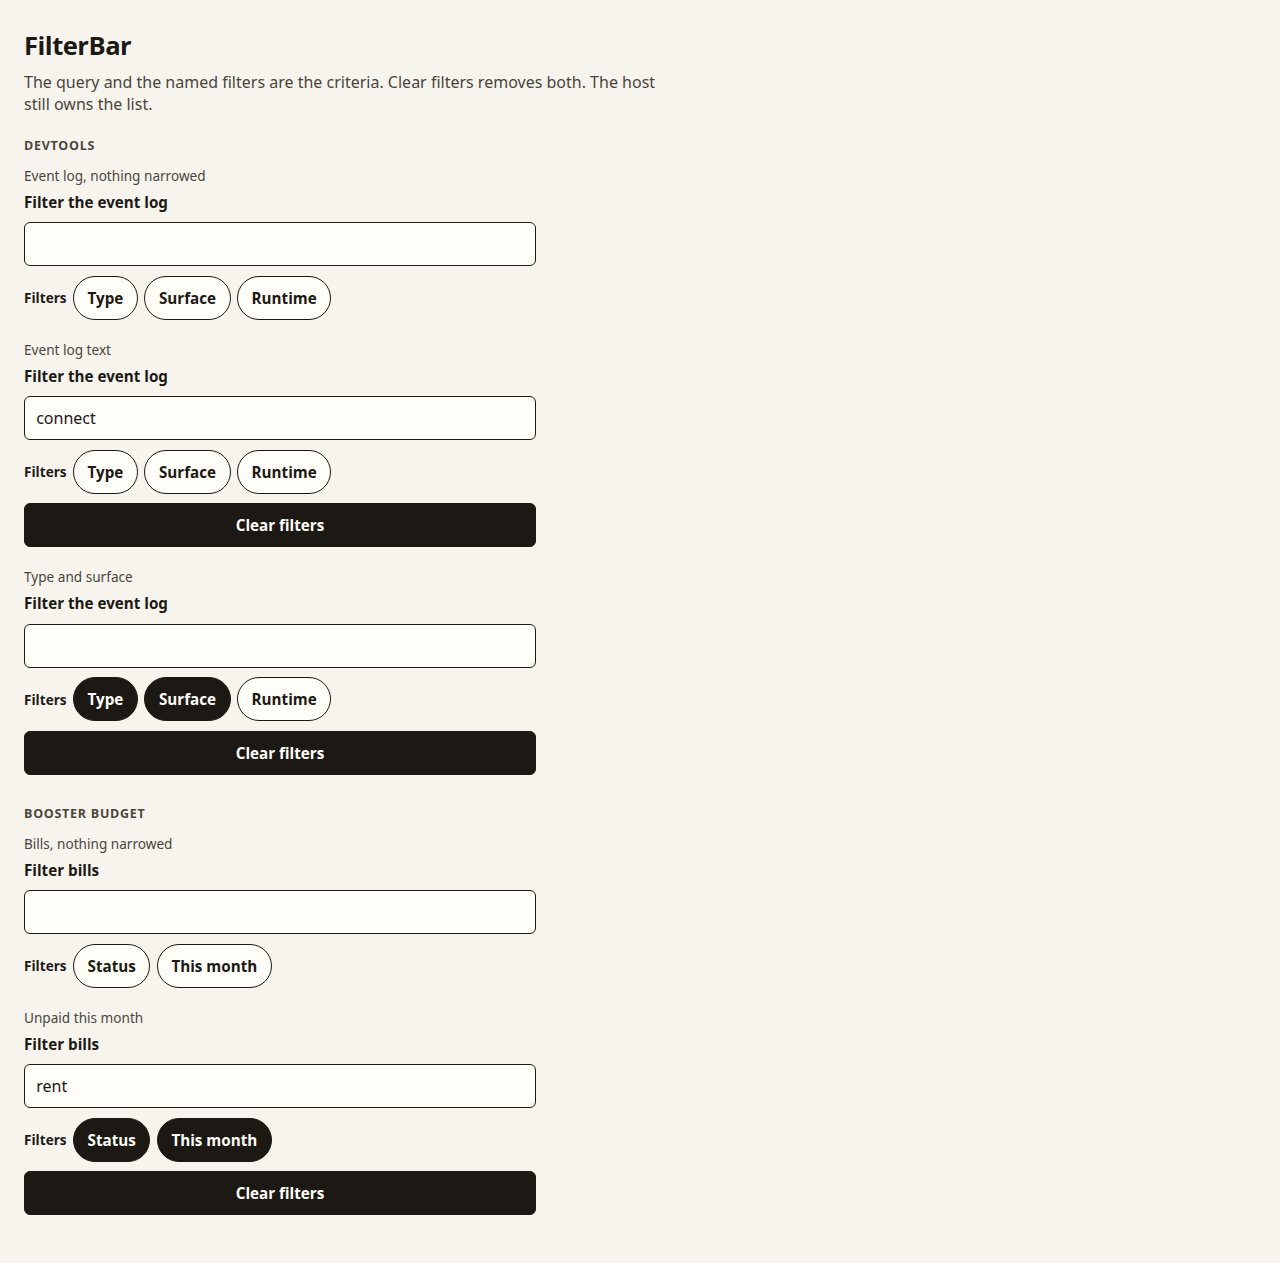
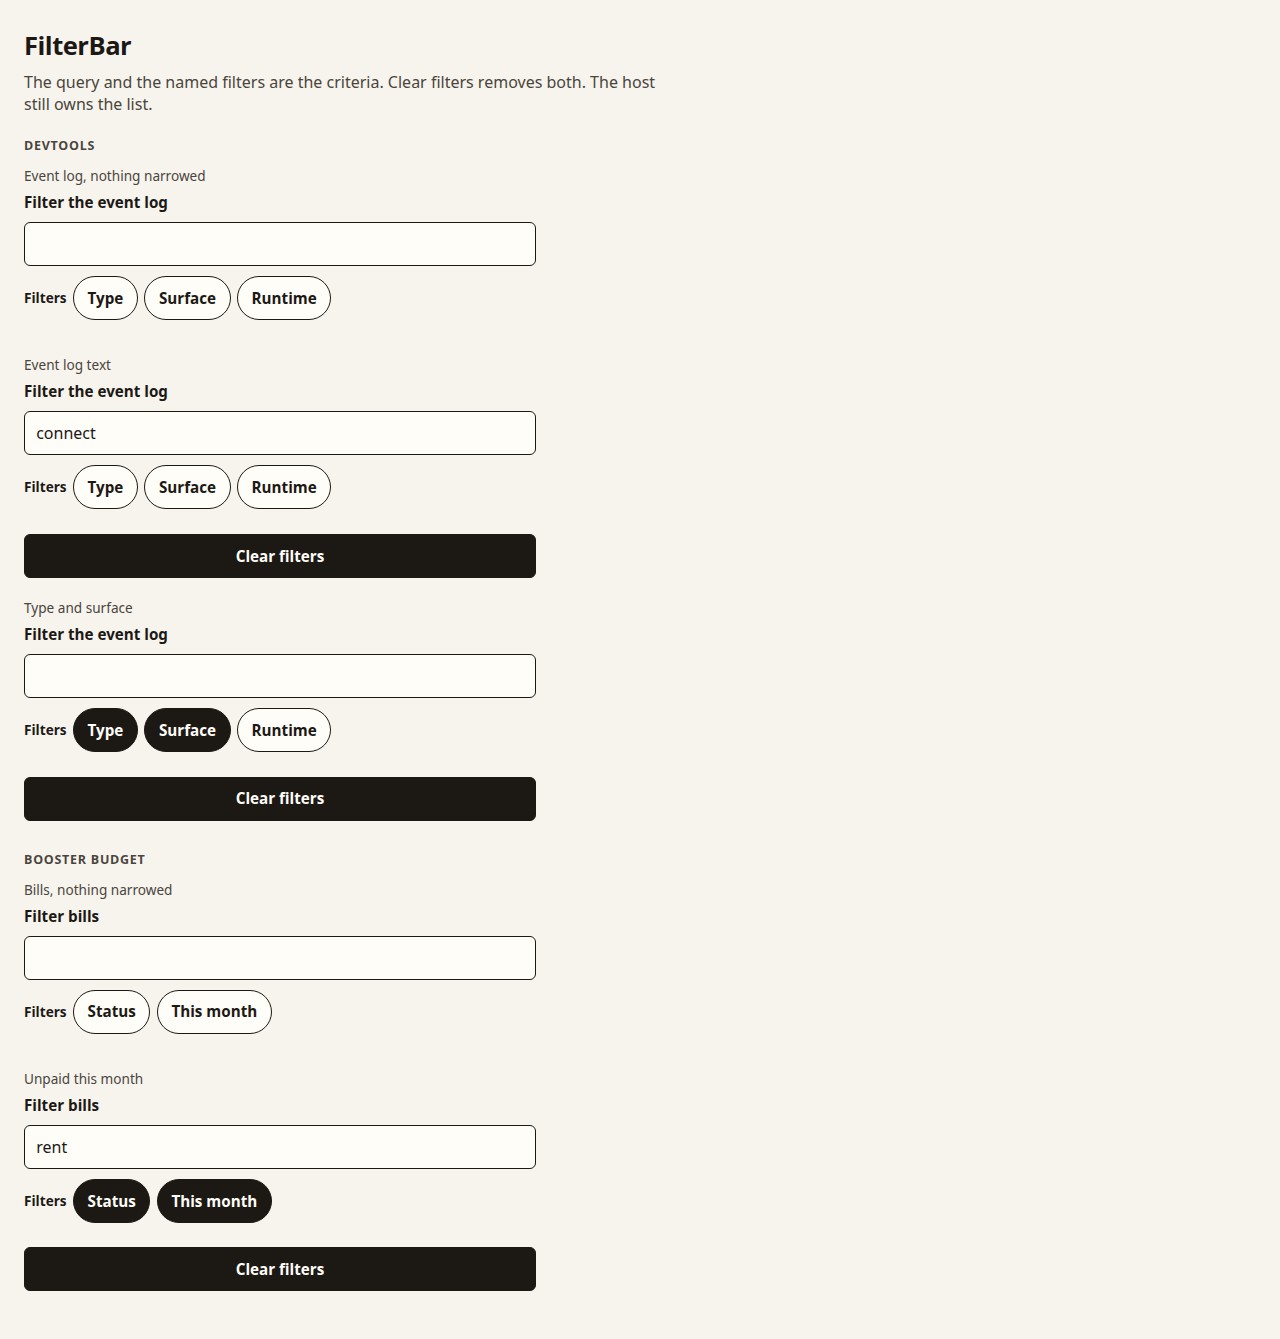
fix(components): clear FilterBar warnings and mount the region empty
Clear removes the unknown-filter warning with the criteria. The polite
region is on the page before the first warning, then that warning fills it.

diff --git a/packages/ignite-components/src/filter-bar/filter-bar.a11y.test.ts b/packages/ignite-components/src/filter-bar/filter-bar.a11y.test.ts
@@ -16,6 +16,8 @@ function mount() {
 	const element = document.createElement(TAG) as HTMLElement & {
 		setFilters: (filters: string | null) => void;
 		setActive: (active: string | null) => void;
+		setQuery: (query: string | null) => void;
+		clear: () => void;
 	};
 	element.setAttribute("label", "Filter the event log");
 	document.body.appendChild(element);
@@ -45,10 +47,18 @@ describe("FilterBar accessibility", () => {
 		const { element, view } = mount();
 		const host = element as HTMLElement & {
 			setFilters: (filters: string | null) => void;
+			clear: () => void;
+			setQuery: (query: string | null) => void;
 		};
+		const polite = element.shadowRoot?.querySelector("[aria-live='polite']");
+		expect(polite?.textContent?.trim() ?? "").toBe("");
 		host.setFilters("Surface");
-		expect(view.getByText(/Unknown filter "Type"/)).toBeTruthy();
-		expect(view.getByRole("status").textContent).toContain("Valid filters");
+		expect(view.getAllByText(/Unknown filter "Type"/)).toHaveLength(1);
+		expect(polite?.textContent).toContain("Valid filters");
+		host.setQuery("rent");
+		host.clear();
+		expect(polite?.textContent?.trim() ?? "").toBe("");
+		expect(view.queryByText(/Unknown filter/)).toBeNull();
 	});
 
 	it("does not leave focus on a chip that was renamed by a new list", () => {

diff --git a/packages/ignite-components/src/filter-bar/filter-bar.view.tsx b/packages/ignite-components/src/filter-bar/filter-bar.view.tsx
@@ -124,17 +124,15 @@ export function filterBarView(ctx: FilterBarViewContext): IgniteJsxElement {
 					}}
 				/>
 				{ctx.showFilters ? chips(ctx) : null}
-				{ctx.warnings.length > 0
-					? liveStatusRegion({
-							instanceId: ctx.instanceId,
-							polite: ctx.warnings.join(" "),
-							assertive: null,
-							busy: false,
-							progress: "none",
-							settled: null,
-							visiblePolite: true,
-						})
-					: null}
+				{liveStatusRegion({
+					instanceId: ctx.instanceId,
+					polite: ctx.warnings.length > 0 ? ctx.warnings.join(" ") : null,
+					assertive: null,
+					busy: false,
+					progress: "none",
+					settled: null,
+					visiblePolite: true,
+				})}
 				{ctx.canClear ? (
 					<button
 						type="button"

diff --git a/packages/ignite-components/src/filter-bar/filter-bar.states.test.ts b/packages/ignite-components/src/filter-bar/filter-bar.states.test.ts
@@ -80,6 +80,8 @@ describe("FilterBar states", () => {
 				active: [],
 				canClear: false,
 				canClearRefusal: "Nothing is filtered.",
+				warnings: [],
+				a11y: { cli: null, mcp: { warnings: [], status: "quiet" } },
 			});
 		} finally {
 			core.dispose();

diff --git a/packages/ignite-components/src/filter-bar/filter-bar.source.ts b/packages/ignite-components/src/filter-bar/filter-bar.source.ts
@@ -180,7 +180,7 @@ export const filterBarMachine = setup({
 		],
 		CLEAR: {
 			guard: "filtered",
-			actions: ["clearCriteria", "announceClear"],
+			actions: ["clearCriteria", "clearWarnings", "announceClear"],
 		},
 	},
 	states: {
